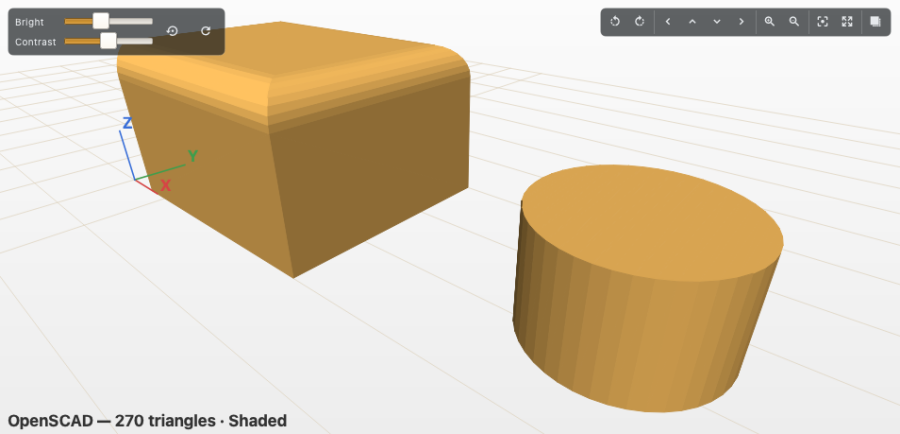
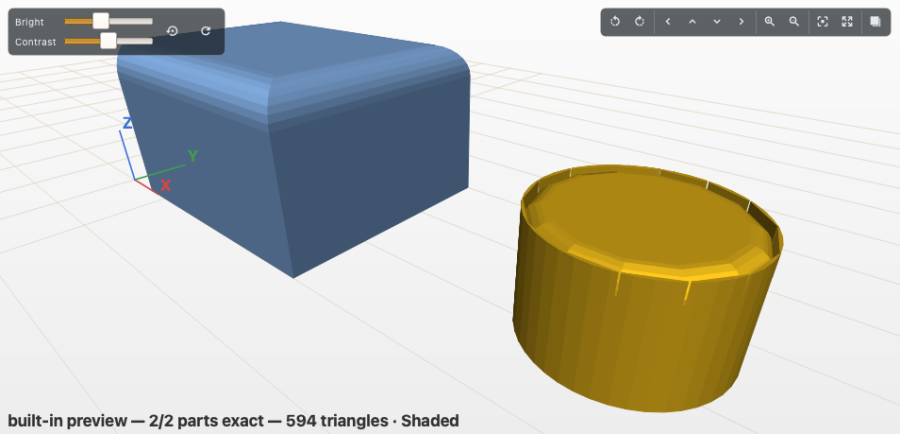
fix: a fillet's cut is built for the segment count OpenSCAD draws
The children were tessellated at their own segment count while the
program rendered them at the document-wide $fn, so a cutter built round
a 24-gon rim straddled a 45-gon one and missed. The fillet now
tessellates at the $fn in force (codegen's or the preview's) and a
remembered seed is matched to a crease by point-to-segment distance,
so a rim re-tessellated at another count is still the same rim. The
example uses Objects with their own colour so each part gets its exact
per-part render.

diff --git a/khervecad/fillet.py b/khervecad/fillet.py
@@ -365,17 +365,28 @@ def strip(run: dict, radius: float, kind: str, detail: int) -> list:
 
 
 # ------------------------------------------------------------ compute
+def _seg_dist(p, a, b) -> float:
+    ab = _sub(b, a)
+    denom = _dot(ab, ab) or 1e-12
+    t = max(0.0, min(1.0, _dot(_sub(p, a), ab) / denom))
+    return _len(_sub(p, _add(a, _mul(ab, t))))
+
+
 def find_edge(edges, seed, size: float):
     """The crease nearest the remembered segment *seed* (6 numbers),
-    or None: closest midpoint within tolerance, roughly parallel."""
+    or None: the seed's midpoint must lie within tolerance of the
+    crease segment (so a rim re-tessellated at another segment count
+    is still the same rim), roughly parallel to it."""
     a, b = tuple(seed[:3]), tuple(seed[3:6])
     mid = _mul(_add(a, b), 0.5)
     d = _unit(_sub(b, a))
     tol = FIND_TOL + FIND_FRAC * size
     best, best_dist = None, None
     for e in edges:
-        dist = _len(_sub(e.mid, mid))
-        if dist > tol or abs(_dot(e.direction, d)) < 0.9:
+        if abs(_dot(e.direction, d)) < 0.9:
+            continue
+        dist = _seg_dist(mid, e.a, e.b)
+        if dist > tol:
             continue
         if best_dist is None or dist < best_dist:
             best, best_dist = e, dist
@@ -462,16 +473,30 @@ def _num(value, env, default):
 
 def baked(node, env) -> dict:
     """compute() for a fillet node, cached by content: the children's
-    local mesh and the node's parameters."""
+    local mesh and the node's parameters.
+
+    The children are tessellated at the segment count OpenSCAD will
+    render them with — the document-wide $fn in force during codegen
+    (model._FN_OVERRIDE) or the preview's (mesh._FN_OVERRIDE). A cut
+    built round a 24-gon rim misses a 45-gon one."""
     from . import bake, document, mesh
-    key = json.dumps([document.node_to_dict(node),
+    from . import model as model_mod
+    fn = mesh._FN_OVERRIDE
+    if fn is None:
+        fn = model_mod._FN_OVERRIDE
+    key = json.dumps([document.node_to_dict(node), fn,
                       sorted((k, repr(v)) for k, v in env.items())],
                      sort_keys=True, default=str)
     hit = _CACHE.get(key)
     if hit is None:
         p = node.params
-        src = [tri for tri, _c, _s in
-               mesh._children_mesh(node, env, None, frozenset(), False)]
+        saved = mesh._FN_OVERRIDE
+        mesh._set_fn(fn)
+        try:
+            src = [tri for tri, _c, _s in mesh._children_mesh(
+                node, env, None, frozenset(), False)]
+        finally:
+            mesh._set_fn(saved)
         result = compute(src, p.get("edges") or [],
                          _num(p.get("radius", 2.0), env, 2.0),
                          str(p.get("kind", "round")),

diff --git a/tests/test_fillet.py b/tests/test_fillet.py
@@ -298,6 +298,37 @@ def _openscad_binary():
     return None
 
 
+def test_the_cut_follows_the_document_segment_count(app, tmp_path):
+    """The rim was picked on a 24-segment cylinder, but the document's
+    common $fn renders it with 45: the cut must be built for the rim
+    OpenSCAD draws, or it straddles the wrong facets and misses."""
+    binary = _openscad_binary()
+    if binary is None:
+        pytest.skip("OpenSCAD is not installed")
+    from khervecad import engine
+    doc = DocumentModel()
+    doc.set_global_fn(False)
+    cyl = doc.add_node("cylinder", dict(radius_bottom=10.0, radius_top=10.0,
+                                        height=12.0, segments=24))
+    rim = [c for c in fillet.chains(mesh.tessellate(doc.root))
+           if c["centre"][2] > 6][0]
+    node = doc.wrap_nodes([cyl], "fillet")
+    node.params.update(radius=2.0, edges=[rim["seed"]])
+    doc.set_global_fn(True, 45)                  # now everything is 45
+    assert validate(doc.root) == {}
+    scad, stl = tmp_path / "rim.scad", tmp_path / "rim.stl"
+    scad.write_text(doc.to_scad())
+    assert "$fn=45" in scad.read_text() or "$fn = 45" in scad.read_text()
+    run = subprocess.run([binary, "-o", str(stl), str(scad)],
+                         capture_output=True, text=True, timeout=180)
+    assert run.returncode == 0, run.stderr[-1500:]
+    exact = engine.parse_stl(str(stl))
+    plain = math.pi * 100 * 12 * (math.sin(2 * math.pi / 45) * 45
+                                  / (2 * math.pi))
+    removed = (1 - math.pi / 4) * 4 * 2 * math.pi * 9   # torus corner
+    assert _volume(exact) == pytest.approx(plain - removed, rel=0.02)
+
+
 def test_openscad_rounds_the_edge_to_the_analytic_volume(app, tmp_path):
     binary = _openscad_binary()
     if binary is None:

diff --git a/khervecad/examples.py b/khervecad/examples.py
@@ -273,10 +273,12 @@ def filleted_block() -> CadNode:
     boss.add(_cyl("Cylinder [Boss]", 10.0, 12.0, segments=24))
     # Objects, so each part gets its own exact OpenSCAD render in Main —
     # the rounding is a boolean the quick preview cannot show
-    block_part = CadNode("component", "Block")
-    block_part.add(_color("Block", "#7a9cc6", chamfer))
-    boss_part = CadNode("component", "Boss", dict(x=70.0, y=15.0))
-    boss_part.add(_color("Boss", "#c9a227", boss))
+    # (an Object's exact mesh is tinted by the Object's own colour)
+    block_part = CadNode("component", "Block", dict(color="#7a9cc6"))
+    block_part.add(chamfer)
+    boss_part = CadNode("component", "Boss",
+                        dict(x=70.0, y=15.0, color="#c9a227"))
+    boss_part.add(boss)
     return _root(block_part, boss_part)
 
 
